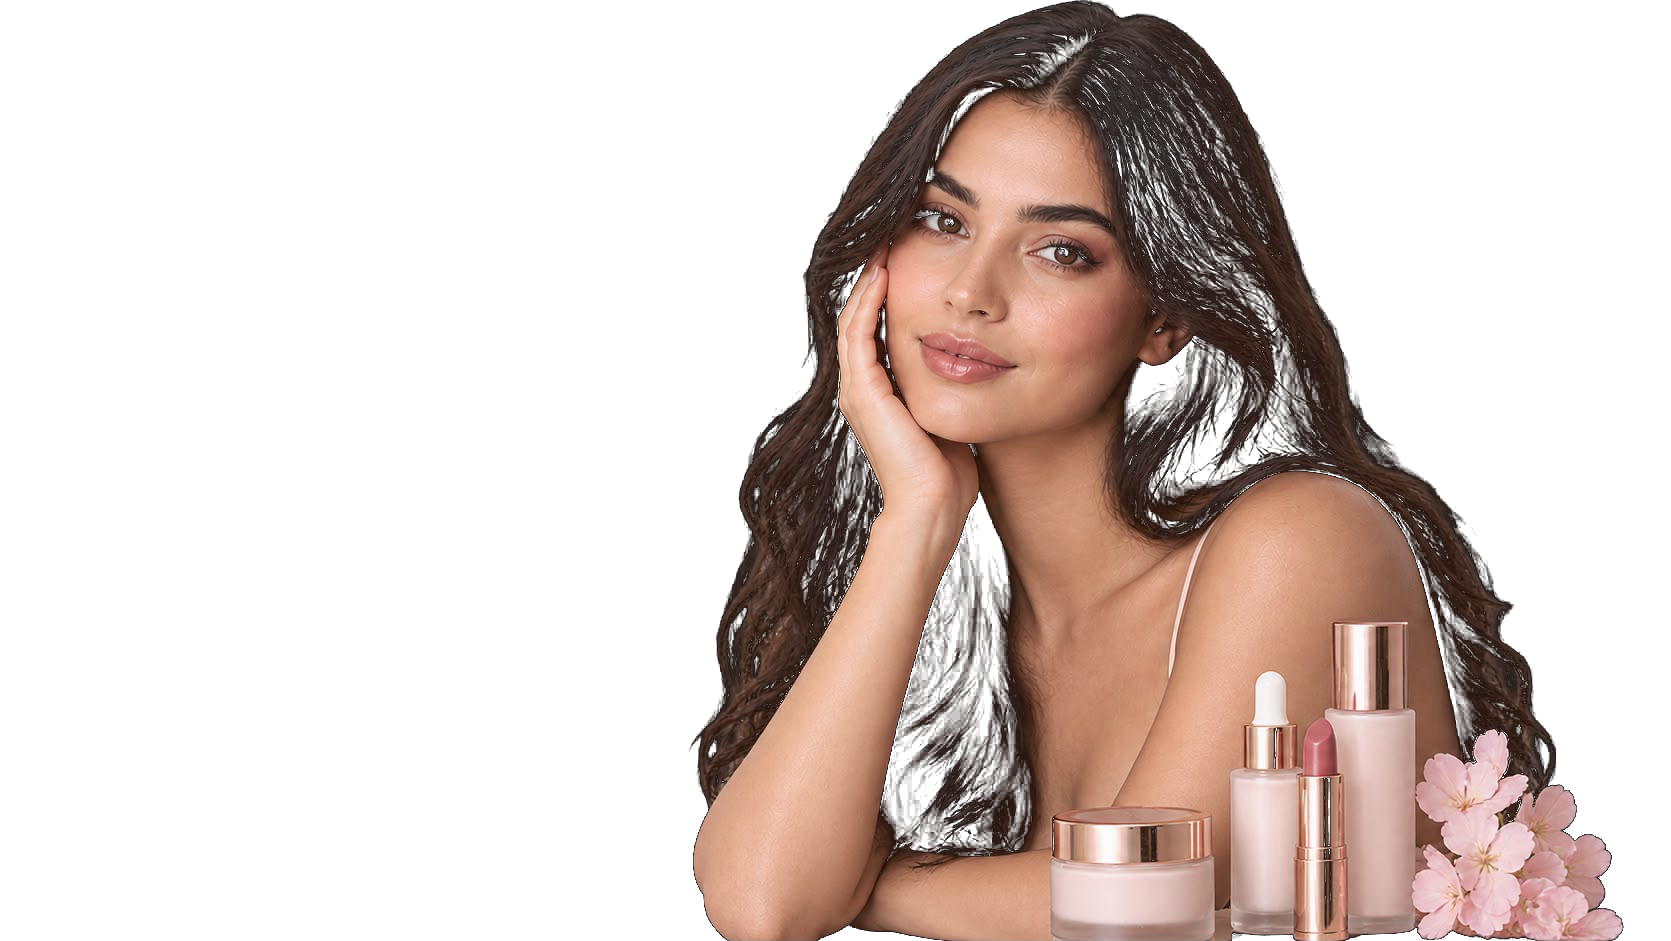
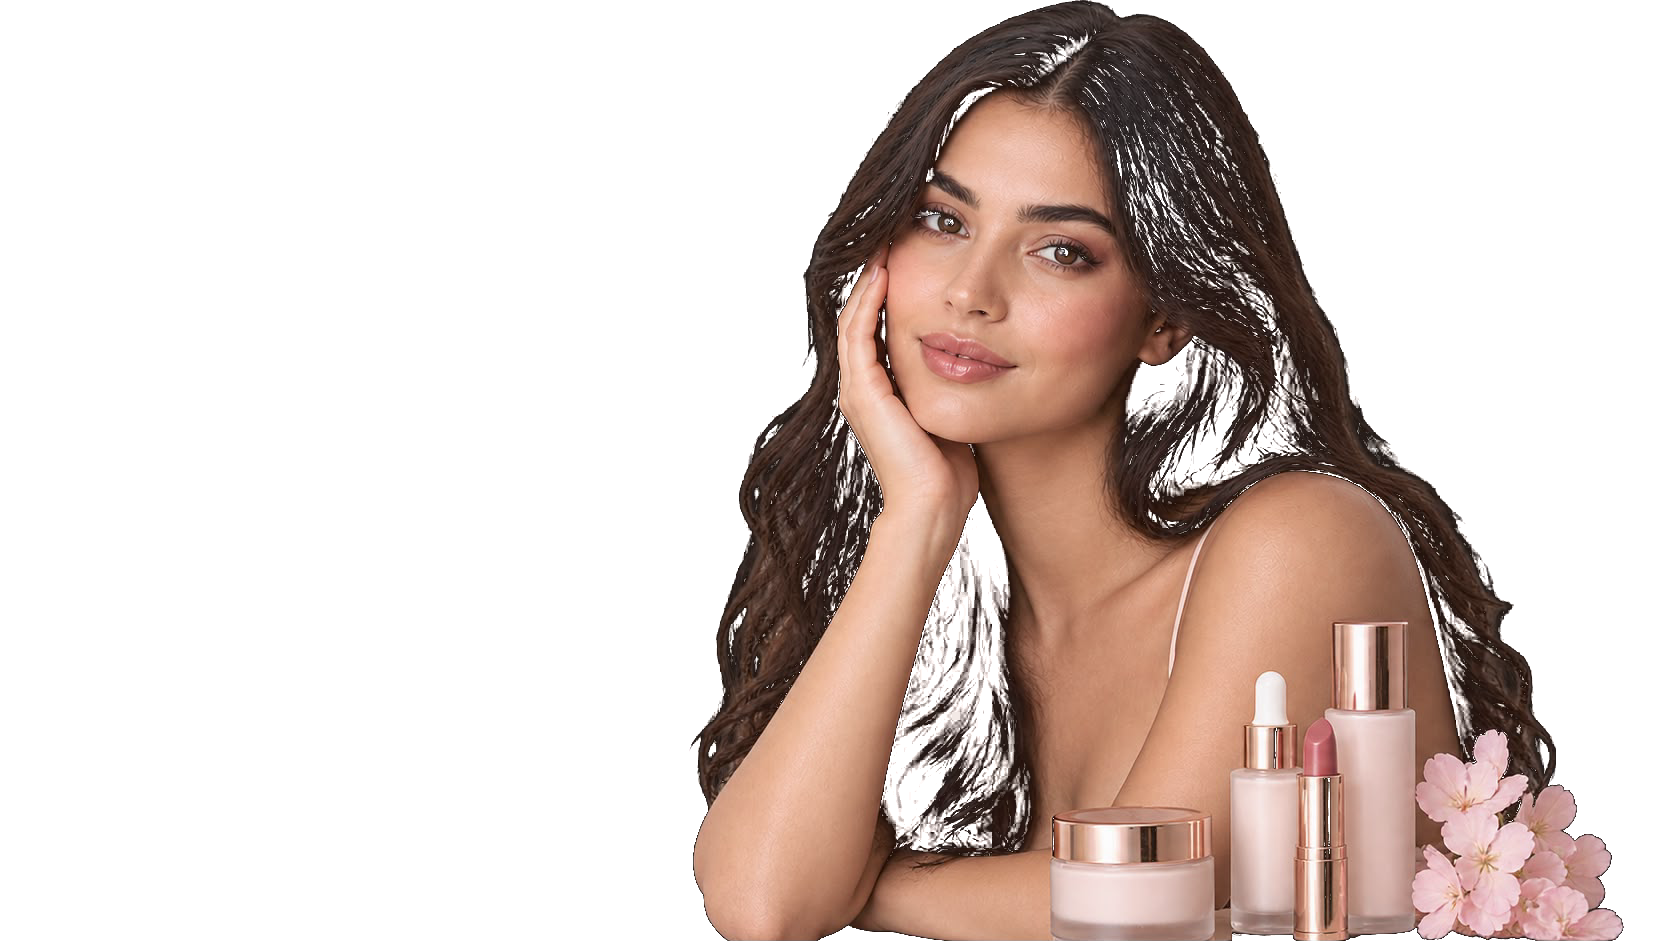
fix(storefront): rebuild hero cutout with color decontamination, resize, fix mobile crop
The cutout PNG had picked up a visible opaque white patch near the
flowers (from an untracked model-cutout2.png / modified model-cutout.png
found sitting in the working tree — origin unclear, rebuilt from the
original source rather than debugging the stray files). Root cause of
the general edge-quality issue this session kept circling back to:
the original matting script set alpha correctly but left semi-
transparent edge pixels' RGB untouched, which are a blend of the true
foreground color and pure black (observed = trueColor * alpha) — so
they read as a dark/washed halo once composited over anything other
than pure black. Rebuilt with proper unpremultiply (trueColor =
observed / alpha) for every partially-transparent pixel, which is what
actually removes the fringing instead of just hiding it.

Desktop: max-height 490px -> 450px (smaller, and further right since
it's bottom-right anchored). Mobile: previously sized by width with
height:auto, which scales the ENTIRE 1671x941 canvas (including the
transparent dead space on its left half) down to fit a 280px box, so
the actual subject rendered small and pushed into a corner — this is
the "posición" issue on mobile. Now a fixed aspect-ratio box with
object-fit:cover crops straight to the subject instead of shrinking
the whole canvas.

diff --git a/BellaFront/src/storefront/pages/HomePage.css b/BellaFront/src/storefront/pages/HomePage.css
@@ -205,7 +205,7 @@
      a smaller max-height pulls the visible content in from the left AND
      right at once — smaller and shifted right together, from one number. */
   height: 100%;
-  max-height: 490px;
+  max-height: 450px;
   width: auto;
   max-width: none;
   animation: fade-in-up 0.9s var(--ease-premium) 120ms both;
@@ -256,7 +256,26 @@
     height: auto;
     padding: var(--space-3) 0 0;
   }
-  .storefront-hero__media img { height: auto; max-height: none; width: 100%; max-width: 280px; object-position: bottom center; }
+  /* The source canvas is a 1671x941 landscape frame with the subject living
+     only in its right ~55% — the rest is transparent dead space (the
+     model_cutout.png keeps the full frame so desktop's edge-to-edge bleed
+     has room to breathe). Sizing this the same way as desktop (width-
+     constrained, height:auto, full canvas aspect ratio) meant most of a
+     small 280px-wide mobile box was invisible padding, with the actual
+     subject shrunk down small and pushed into its right-hand corner — the
+     "posición" the client flagged. A fixed, subject-shaped aspect-ratio
+     box with object-fit:cover crops straight to the part of the canvas
+     that actually has content, so the photo fills its box on mobile the
+     same way the storefront's OWN product photography already does. */
+  .storefront-hero__media img {
+    height: auto;
+    max-height: none;
+    width: 100%;
+    max-width: 300px;
+    aspect-ratio: 4 / 3;
+    object-fit: cover;
+    object-position: 78% 15%;
+  }
 
   .storefront-hero__trust { flex-direction: column; align-items: flex-start; gap: 8px; }
   .storefront-hero__trust-item { border-right: none; padding-right: 0; }
